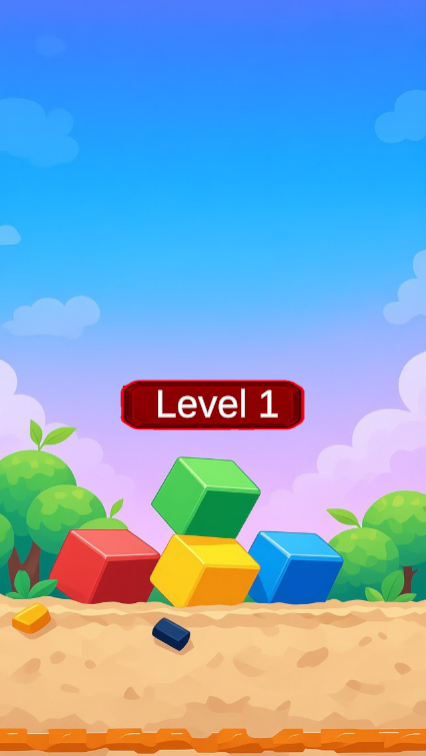
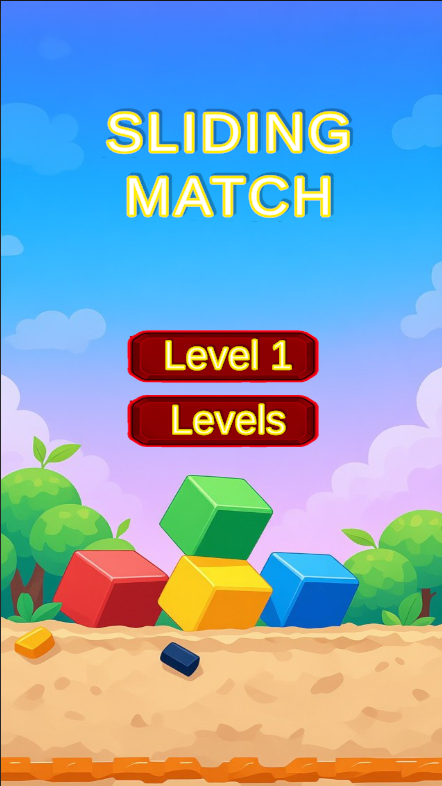
added title

diff --git a/Assets/Scripts/Utils/TitleBounce.cs b/Assets/Scripts/Utils/TitleBounce.cs
@@ -1,0 +1,20 @@
+using UnityEngine;
+using DG.Tweening;
+
+public class TitleBounce : MonoBehaviour
+{
+    private RectTransform rectTransform;
+
+    void Start()
+    {
+        rectTransform = GetComponent<RectTransform>();
+
+        
+        rectTransform.localScale = Vector3.one * 0.95f;
+
+        rectTransform
+            .DOAnchorPosY(rectTransform.anchoredPosition.y + 10f, 0.4f)
+            .SetEase(Ease.InOutSine)
+            .SetLoops(-1, LoopType.Yoyo);
+    }
+}
